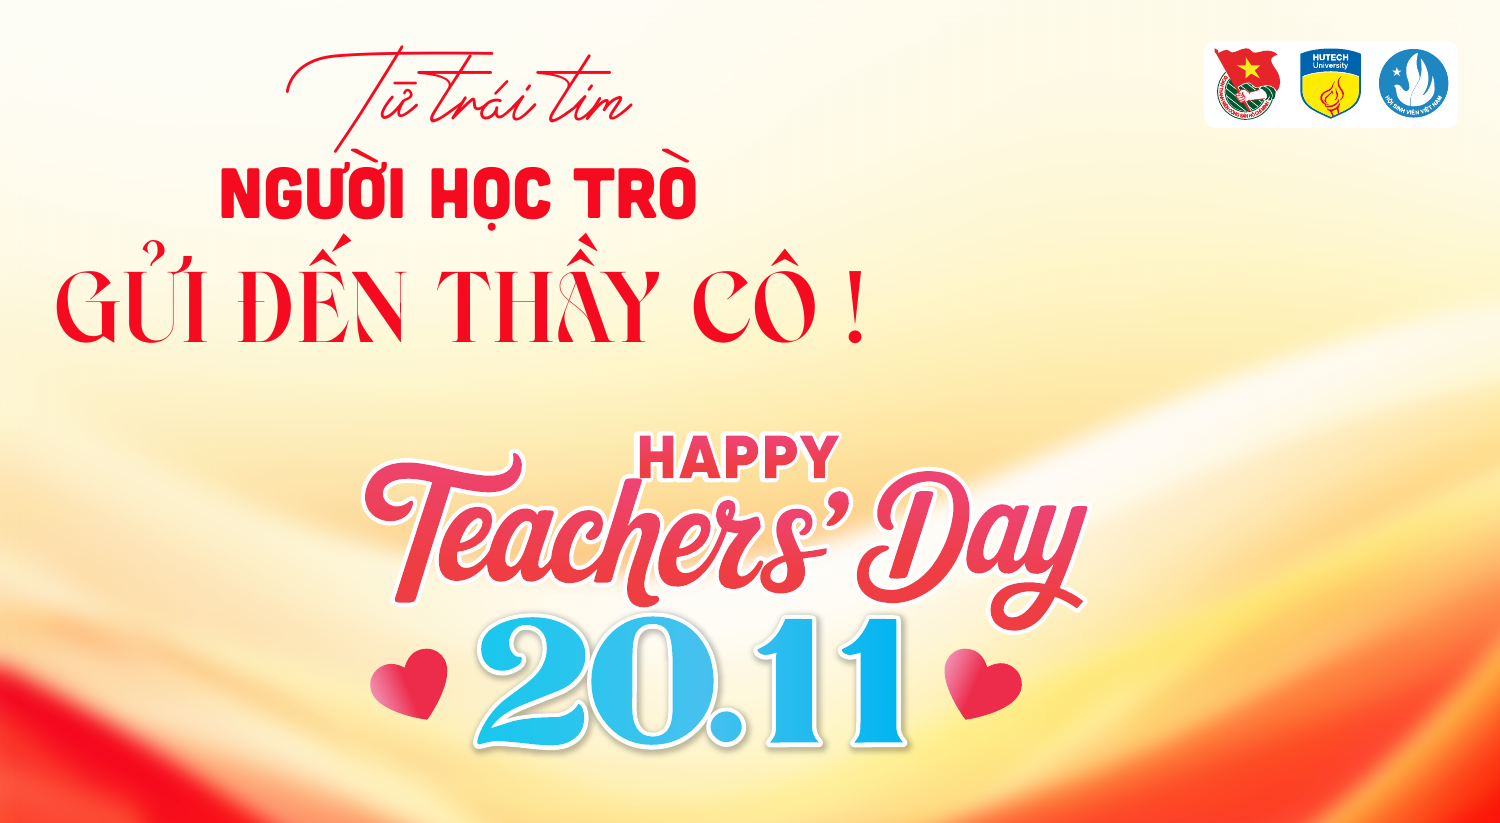
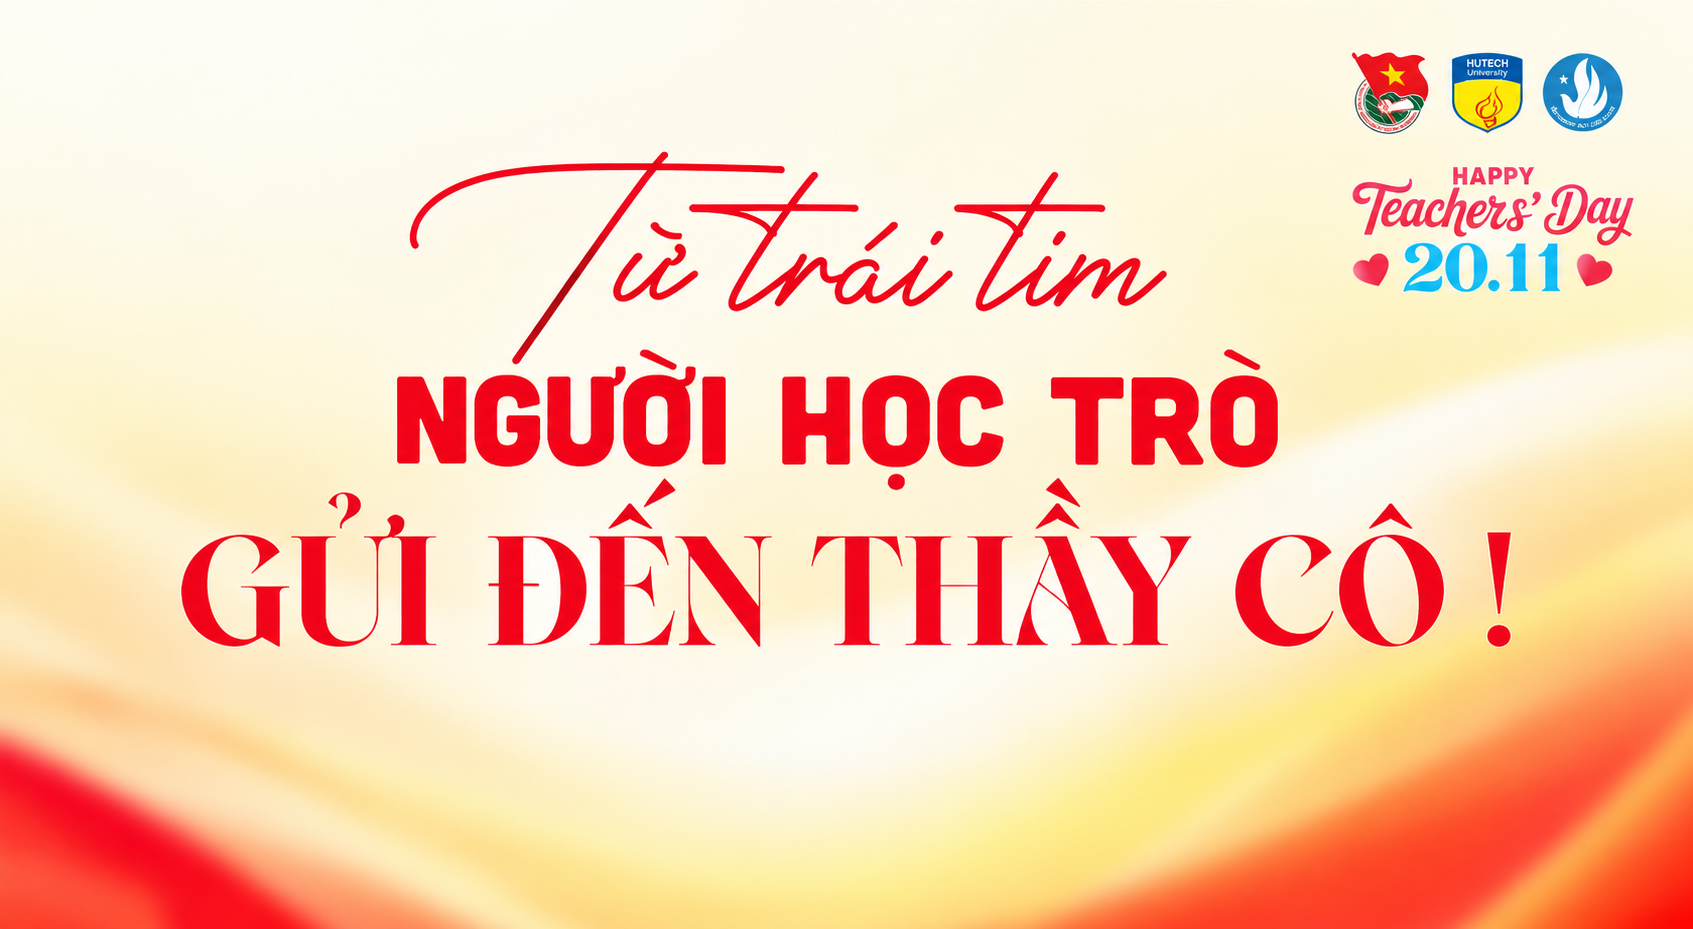
Replace homepage poster with updated Teachers Day artwork

diff --git a/app/page.jsx b/app/page.jsx
@@ -73,7 +73,7 @@ export default function Home() {
     </header>
     <main className="mx-auto max-w-[1240px]">
       <section className="mx-auto w-full max-w-[960px] overflow-hidden md:rounded-b-xl" aria-label="Từ trái tim người học trò gửi đến thầy cô">
-        <img src="/banner.png" width="1500" height="823" alt="Từ trái tim người học trò gửi đến thầy cô! Happy Teachers’ Day 20.11" className="h-auto w-full" fetchPriority="high" />
+        <img src="/banner.png" width="1693" height="929" alt="Từ trái tim người học trò gửi đến thầy cô! Happy Teachers’ Day 20.11" className="h-auto w-full" fetchPriority="high" />
         <a href="#loi-tri-an" className="flex items-center justify-between bg-gold/70 px-6 py-3 text-[10px] tracking-wide">Khám phá những lời yêu thương <span className="text-2xl text-rose">↓</span></a>
       </section>
       <section id="ky-uc" className="relative overflow-hidden px-6 py-14 text-center md:py-20">
